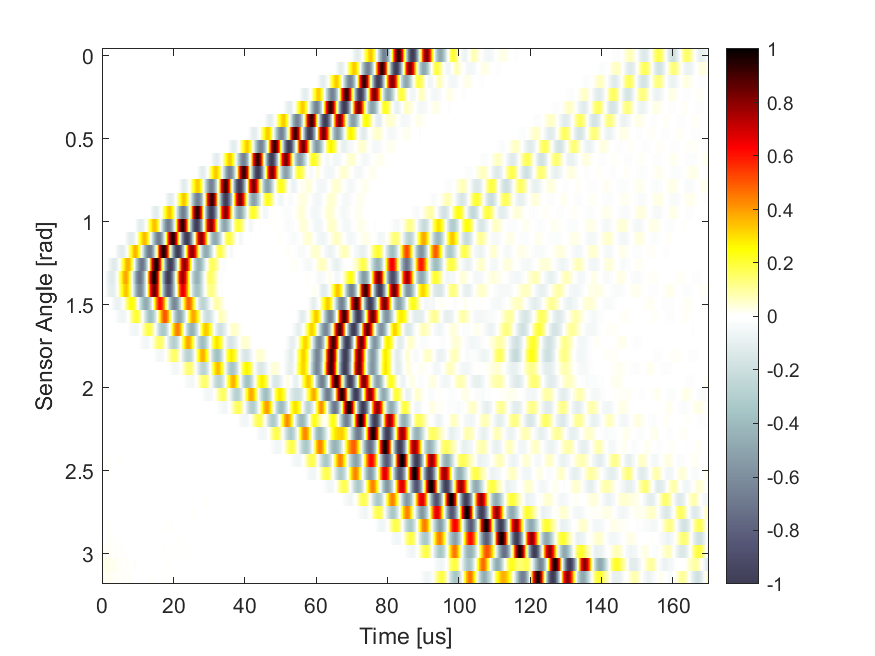
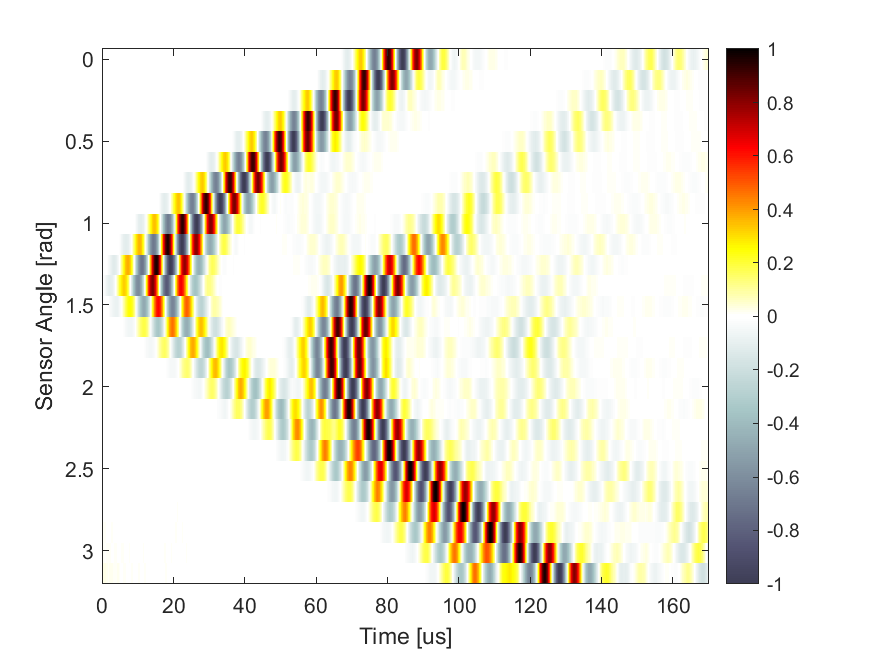
Corrected headers

diff --git a/b_sparse_coding.m b/b_sparse_coding.m
@@ -1,9 +1,23 @@
 % *************************************************************************
-% Felipe Reis Campanha Ribeiro
-% felipercr.eng@gmail.com
-% Telecom SudParis, 2025
+% Author: Felipe Reis Campanha Ribeiro
+% Contact: felipercr.eng@gmail.com
+% Institution: Telecom SudParis, 2025
 %
-% ...
+% Title: Compressed Sensing on the Case of the Inverse Problem of a 
+%        Biomimetic Sonar Inspired by Dolphin Echolocation
+%
+% Description:
+% This code was developed by Felipe Reis for the experiments described in
+% the above article. It is made publicly available to allow replication of
+% the experiments and further development.
+%
+% License:
+% This work is licensed under the MIT License (see LICENSE file in the 
+% repository).
+%
+% Citation:
+% If you use this code in your research or publications, please cite it
+% accordingly
 % *************************************************************************
 
 % =========================================================================
@@ -70,7 +84,7 @@ lambda = 0.0001;
 % Matlab built-in lasso
 [g, stats] = lasso(A_stack, y_stack, "Lambda", lambda);
 
-% SPAMS implementation
+% SPAMS implementation, needs external installation
 %start_spams;
 %param.lambda = lambda;
 %param.mode = 2; % L1 regularization
@@ -78,16 +92,6 @@ lambda = 0.0001;
 %param.tol = 1;
 %param.itermax = 1;
 %g = mexLasso(y_stack, A_stack, param);
-
-% Mosek implementation
-%g = norm_lse_lasso(A_stack, y_stack, lambda);
-
-% Mosek implementation over cvx
-%cvx_solver mosek
-%cvx_begin
-%    variable g(v, 1)                                                  % Optimization variable
-%    minimize( norm(y_stack - A_stack * g, 2) + lambda * norm(g, 1) )  % LASSO
-%cvx_end
 
 fprintf("Optimization problem solved \n\n");
 

diff --git a/a_simulation_routine.m b/a_simulation_routine.m
@@ -1,9 +1,23 @@
 % *************************************************************************
-% Felipe Reis Campanha Ribeiro
-% felipercr.eng@gmail.com
-% Telecom SudParis, 2025
+% Author: Felipe Reis Campanha Ribeiro
+% Contact: felipercr.eng@gmail.com
+% Institution: Telecom SudParis, 2025
 %
-% ...
+% Title: Compressed Sensing on the Case of the Inverse Problem of a 
+%        Biomimetic Sonar Inspired by Dolphin Echolocation
+%
+% Description:
+% This code was developed by Felipe Reis for the experiments described in
+% the above article. It is made publicly available to allow replication of
+% the experiments and further development.
+%
+% License:
+% This work is licensed under the MIT License (see LICENSE file in the 
+% repository).
+%
+% Citation:
+% If you use this code in your research or publications, please cite it
+% accordingly
 % *************************************************************************
 
 % clc;
@@ -13,7 +27,7 @@ addpath("functions\")
 % =========================================================================
 % Simulation control
 % =========================================================================
-num_sensors = 41;
+num_sensors = 26;
 sensor_type = 1;
     % 1 = disc receiver
     % 2 = line receiver

diff --git a/full_routine.m b/full_routine.m
@@ -1,16 +1,29 @@
 % *************************************************************************
-% Felipe Reis Campanha Ribeiro
-% felipercr.eng@gmail.com
-% Telecom SudParis, 2025
+% Author: Felipe Reis Campanha Ribeiro
+% Contact: felipercr.eng@gmail.com
+% Institution: Telecom SudParis, 2025
 %
-% ...
+% Title: Compressed Sensing on the Case of the Inverse Problem of a 
+%        Biomimetic Sonar Inspired by Dolphin Echolocation
+%
+% Description:
+% This code was developed by Felipe Reis for the experiments described in
+% the above article. It is made publicly available to allow replication of
+% the experiments and further development.
+%
+% License:
+% This work is licensed under the MIT License (see LICENSE file in the 
+% repository).
+%
+% Citation:
+% If you use this code in your research or publications, please cite it
+% accordingly
 % *************************************************************************
 
 clc;
 clearvars;
 
 % SET THE PARAMETERS ON EACH SCRIPT BEFORE EXECUTING THIS ONE %
-% TODO: make optional to set some of the variables through here
 
 a_simulation_routine;
 b_sparse_coding;

diff --git a/c_gen_result_routine.m b/c_gen_result_routine.m
@@ -1,9 +1,23 @@
 % *************************************************************************
-% Felipe Reis Campanha Ribeiro
-% felipercr.eng@gmail.com
-% Telecom SudParis, 2025
+% Author: Felipe Reis Campanha Ribeiro
+% Contact: felipercr.eng@gmail.com
+% Institution: Telecom SudParis, 2025
 %
-% ...
+% Title: Compressed Sensing on the Case of the Inverse Problem of a 
+%        Biomimetic Sonar Inspired by Dolphin Echolocation
+%
+% Description:
+% This code was developed by Felipe Reis for the experiments described in
+% the above article. It is made publicly available to allow replication of
+% the experiments and further development.
+%
+% License:
+% This work is licensed under the MIT License (see LICENSE file in the 
+% repository).
+%
+% Citation:
+% If you use this code in your research or publications, please cite it
+% accordingly
 % *************************************************************************
 
 % =========================================================================

diff --git a/d_measure_accuracy.m b/d_measure_accuracy.m
@@ -1,9 +1,23 @@
 % *************************************************************************
-% Felipe Reis Campanha Ribeiro
-% felipercr.eng@gmail.com
-% Telecom SudParis, 2025
+% Author: Felipe Reis Campanha Ribeiro
+% Contact: felipercr.eng@gmail.com
+% Institution: Telecom SudParis, 2025
 %
-% ...
+% Title: Compressed Sensing on the Case of the Inverse Problem of a 
+%        Biomimetic Sonar Inspired by Dolphin Echolocation
+%
+% Description:
+% This code was developed by Felipe Reis for the experiments described in
+% the above article. It is made publicly available to allow replication of
+% the experiments and further development.
+%
+% License:
+% This work is licensed under the MIT License (see LICENSE file in the 
+% repository).
+%
+% Citation:
+% If you use this code in your research or publications, please cite it
+% accordingly
 % *************************************************************************
 
 % =========================================================================

diff --git a/e_inverse_rec.m b/e_inverse_rec.m
@@ -1,9 +1,23 @@
 % *************************************************************************
-% Felipe Reis Campanha Ribeiro
-% felipercr.eng@gmail.com
-% Telecom SudParis, 2025
+% Author: Felipe Reis Campanha Ribeiro
+% Contact: felipercr.eng@gmail.com
+% Institution: Telecom SudParis, 2025
 %
-% ...
+% Title: Compressed Sensing on the Case of the Inverse Problem of a 
+%        Biomimetic Sonar Inspired by Dolphin Echolocation
+%
+% Description:
+% This code was developed by Felipe Reis for the experiments described in
+% the above article. It is made publicly available to allow replication of
+% the experiments and further development.
+%
+% License:
+% This work is licensed under the MIT License (see LICENSE file in the 
+% repository).
+%
+% Citation:
+% If you use this code in your research or publications, please cite it
+% accordingly
 % *************************************************************************
 
 % =========================================================================

diff --git a/Simulation.m b/Simulation.m
@@ -1,9 +1,23 @@
 % *************************************************************************
-% Felipe Reis Campanha Ribeiro
-% felipercr.eng@gmail.com
-% Telecom SudParis, 2025
+% Author: Felipe Reis Campanha Ribeiro
+% Contact: felipercr.eng@gmail.com
+% Institution: Telecom SudParis, 2025
 %
-% ...
+% Title: Compressed Sensing on the Case of the Inverse Problem of a 
+%        Biomimetic Sonar Inspired by Dolphin Echolocation
+%
+% Description:
+% This code was developed by Felipe Reis for the experiments described in
+% the above article. It is made publicly available to allow replication of
+% the experiments and further development.
+%
+% License:
+% This work is licensed under the MIT License (see LICENSE file in the 
+% repository).
+%
+% Citation:
+% If you use this code in your research or publications, please cite it
+% accordingly
 % *************************************************************************
 
 classdef Simulation < handle
